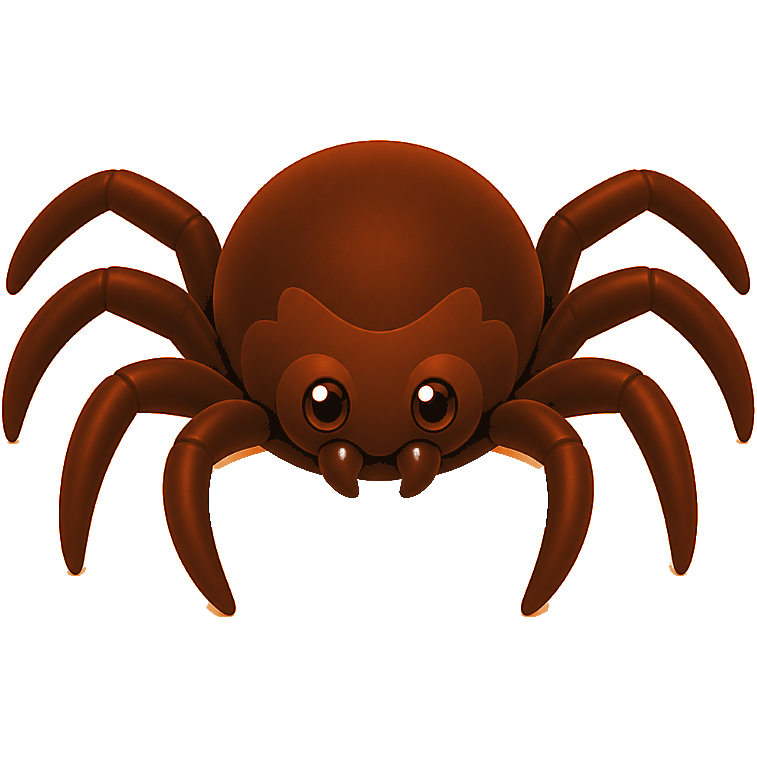
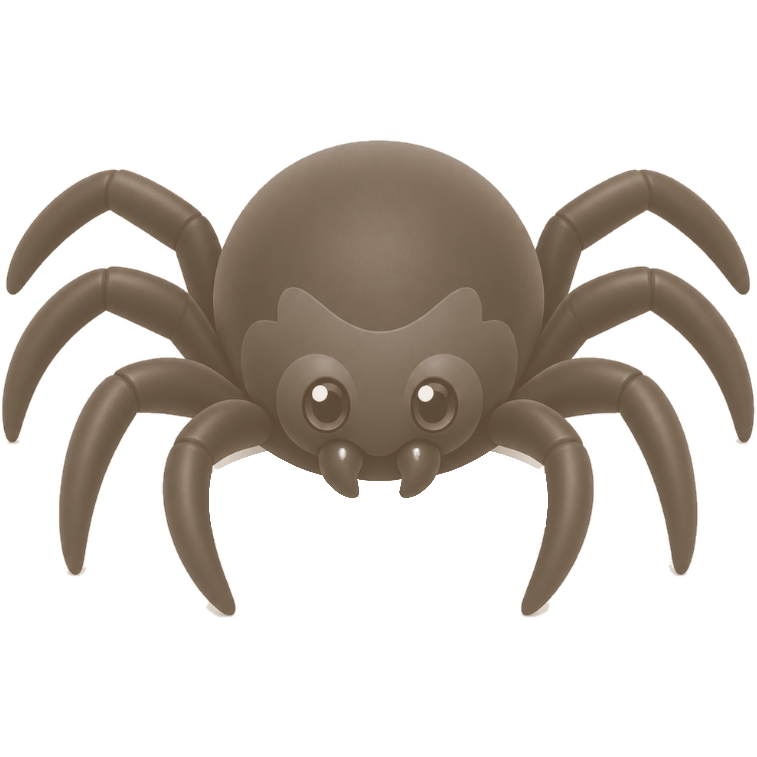
Add files via upload

diff --git a/components/profile/shop-client.tsx b/components/profile/shop-client.tsx
@@ -32,7 +32,7 @@ export function ShopClient() {
       </header>
 
       <section className="flex items-center gap-6 rounded-3xl border border-border bg-card p-6">
-        <Weaver size={156} />
+        <Weaver size={104} />
         <div>
           <p className="text-sm font-semibold">{active.name}</p>
           <p className="mt-1 text-xs leading-relaxed text-muted-foreground">{active.description}</p>